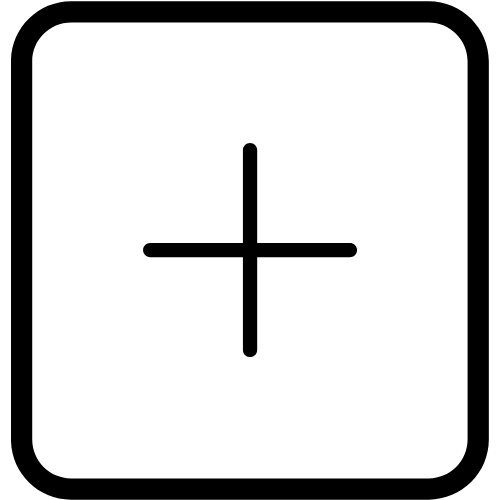
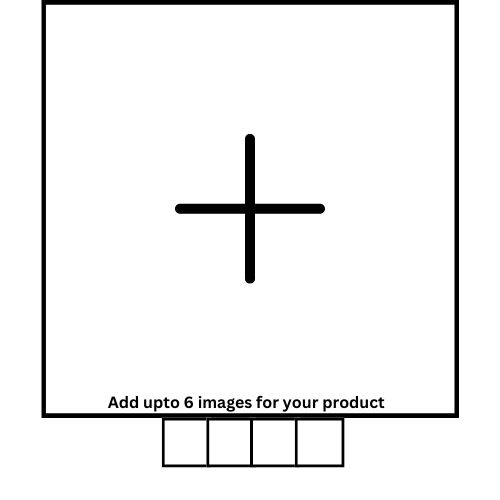
Added few buttons

Changed region(s): [[0.0, 0.0, 0.99, 1.0], [0.27, 0.27, 0.72, 0.72]]

diff --git a/Sell_page.html b/Sell_page.html
@@ -50,10 +50,14 @@
             <div class = "row">
                 <div class = "col-sm-8">
                     <div class = "row mx-auto" style= "padding-left: 15%; padding-right: 25%; padding-top: 10%;" >
-                        <a href="upload"><img src="Images\Add_Image.png"></a>
+                        <img src="Images\Add_Image.png">
+                        <!-- <a href="upload"></a> -->
+                    </div>
+                    <div class = "row mx-auto" style= "padding-left: 26%; padding-right: 33%; " >
+                        <button type = "button">Add Image</button>
                     </div>
                     <div class = "row" style = "padding-top: 10%; padding-right: 20px;">
-                        <input type = "text" placeholder="Product Description" style="height:200px;font-size:14pt;" maxlength="60">
+                        <textarea name= "Product Description" placeholder="Product Description" style="height:200px;font-size:14pt;" maxlength="60"></textarea>
                     </div>
                 </div>
 
@@ -110,7 +114,7 @@
 
                             <!-- PSuedo dropdown code -->
                             <div class="dropdown">
-                                <button class="dropdown-btn">Apparel
+                                <button class="dropdown-btn"> <b> Apparel </b>
                                   <i class="fa fa-caret-down"></i>
                                 </button>
                                 <div class="dropdown-container">
@@ -121,7 +125,7 @@
                                     <button onclick = "collapse()"> Garments</button>
                                     <button onclick = "collapse()">  Other </button>
                                 </div>
-                                <button class="dropdown-btn">Trading Cards 
+                                <button class="dropdown-btn"> <b>Trading Cards</b>
                                   <i class="fa fa-caret-down"></i>
                                 </button>
                                 <div class="dropdown-container">
@@ -131,7 +135,7 @@
                                     <button onclick = "collapse()">  Chaotic </button>
                                     <button onclick = "collapse()">  Other </button>
                                 </div>
-                                <button class="dropdown-btn">Video games 
+                                <button class="dropdown-btn"> <b>Video games</b>
                                   <i class="fa fa-caret-down"></i>
                                 </button>
                                 <div class="dropdown-container">
@@ -143,7 +147,7 @@
                                     <button onclick = "collapse()"> Puzzle </button>
                                     <button onclick = "collapse()"> Other </button>
                                 </div>
-                                <button class="dropdown-btn">Electronics 
+                                <button class="dropdown-btn"> <b> Electronics</b>
                                     <i class="fa fa-caret-down"></i>
                                 </button>
                                 <div class="dropdown-container">
@@ -154,7 +158,7 @@
                                     <button onclick = "collapse()"> TVs and other Home Tech </button>
                                     <button onclick = "collapse()"> Other  </button>
                                 </div>
-                                <button class="dropdown-btn">Vehicle 
+                                <button class="dropdown-btn"> <b>Vehicles</b>
                                     <i class="fa fa-caret-down"></i>
                                 </button>
                                 <div class="dropdown-container">

diff --git a/Sell_page.css b/Sell_page.css
@@ -1,3 +1,5 @@
+@import url('https://fonts.googleapis.com/css2?family=Inter&display=swap');
+
 body{
     margin: 0;
 }
@@ -36,20 +38,17 @@ body{
   font-size: 17px;
 }
 
-/* .wrapper{
-    display:grid;
-    grid-template-columns: 1fr 1fr ;
-    grid-auto-rows: minmax(100px, auto);
-    
-    
-} */
-.Opaque{
+
+
+/* .Opaque{
     opacity: 0.6;
 }
 .Opaque:hover{
     opacity: 1;
-}
+} */
 
+
+/* CSS for the toggle switch */
 input[type=checkbox].toggle-switch {
     appearance: none;
     -moz-appearance: none;
@@ -65,7 +64,7 @@ input[type=checkbox].toggle-switch {
 }
 
 input[type=checkbox].toggle-switch:checked {
-    background-color: #3af;
+    background-color: rgb(23,172,109);
 }
 
 input[type=checkbox].toggle-switch::after {
@@ -89,3 +88,50 @@ input[type=checkbox].toggle-switch:checked::after {
     display: flex;
     flex-direction: column;
 }
+
+
+/* CSS for the CATEGORY DROPDOWN */
+
+.dropdown {
+    background-color: #111;
+}
+
+.dropdown a, .dropdown-btn {
+    padding: 6px 8px 6px 16px;
+    text-decoration: none;
+    font-size: 20px;
+    color: #818181;
+    display: block;
+    border: none;
+    background: none;
+    width: 100%;
+    text-align: left;
+    cursor: pointer;
+    outline: none;
+  }
+  
+  /* On mouse-over */
+  .dropdown a:hover, .dropdown-btn:hover {
+    color: #cfcaca;
+  }
+  
+  
+  
+  /* Add an active class to the active dropdown button */
+  .active {
+    background-color: rgb(23,172,109);
+    color: white;
+  }
+  
+  /* Dropdown container (hidden by default). Optional: add a lighter background color and some left padding to change the design of the dropdown content */
+  .dropdown-container {
+    display: none;
+    background-color: #262626;
+    padding-left: 8px;
+  }
+  
+  /* Optional: Style the caret down icon */
+  .fa-caret-down {
+    float: right;
+    padding-right: 8px;
+  }
